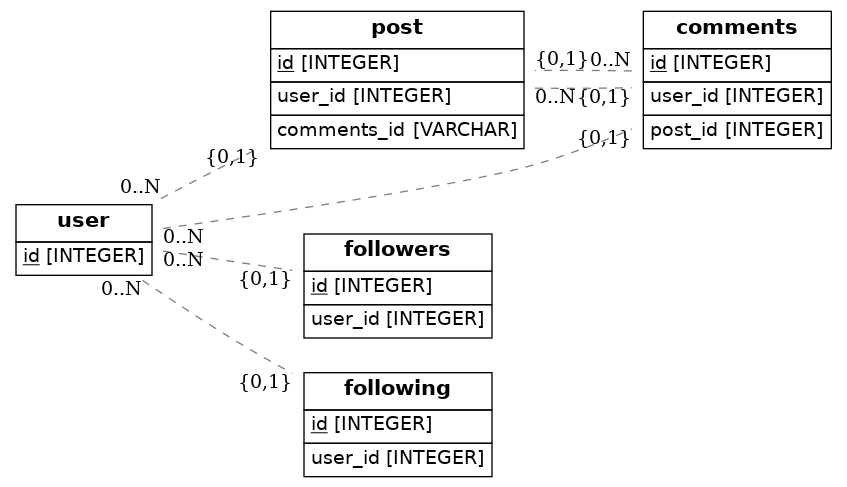
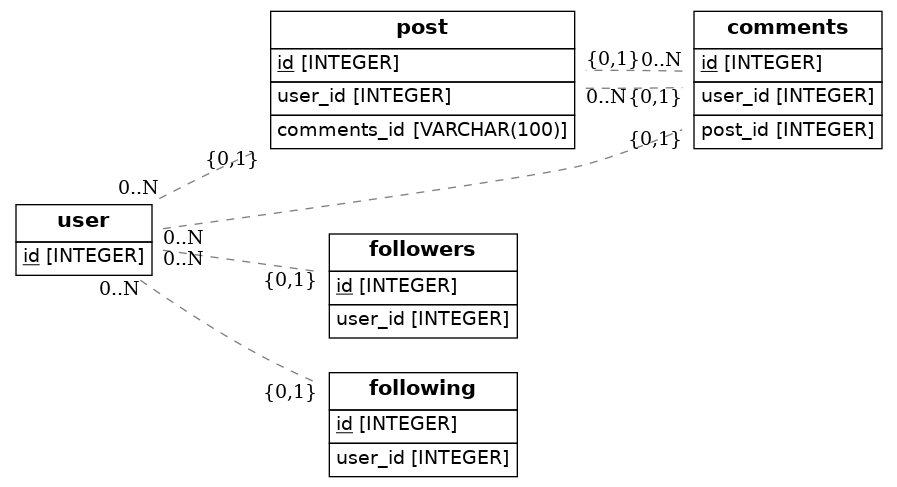
first commit

diff --git a/src/models.py b/src/models.py
@@ -43,7 +43,7 @@ class Post(Base):
     __tablename__ = "post"
     id = Column(Integer, primary_key=True)
     user_id = Column(Integer, ForeignKey("user.id"))
-    comments_id = Column(String, ForeignKey("comments.id"))
+    comments_id = Column(String(100), ForeignKey("comments.id"))
 
 class Comments(Base):
     __tablename__ = "comments"
